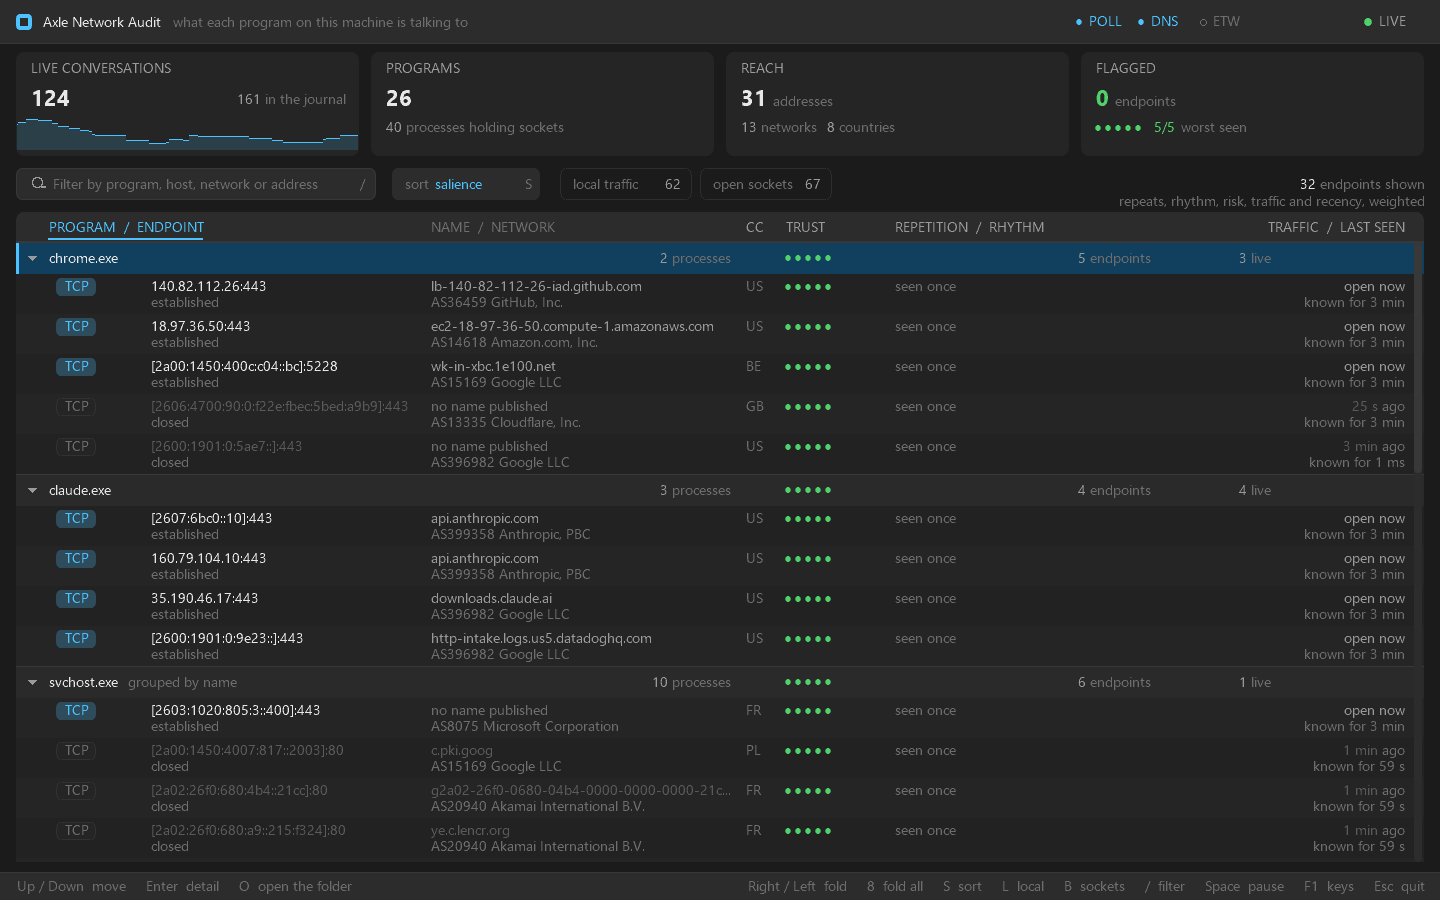
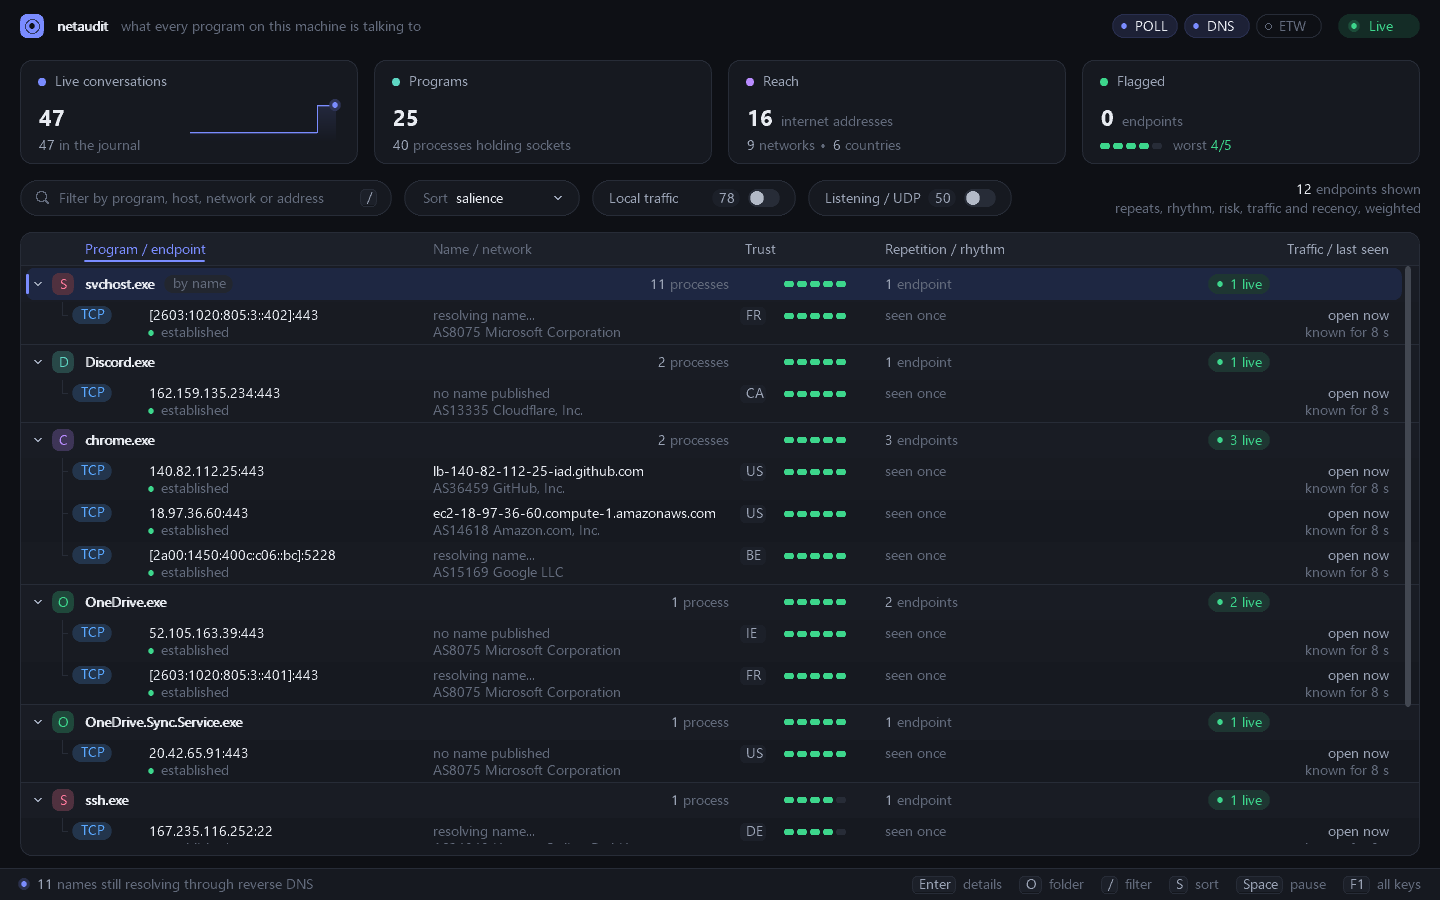
docs: the README, the manifest and the screenshot match the program
- Keys: Esc no longer quits; Sort opens the list of rankings; F12 writes
  beside the working directory.
- Lookups: 4.5 s between batches, retries, one registry question per
  address; the resolver cache is read, never queried.
- Elevation: it reads service paths, and nothing else changes.
- Layout: the new files (session, world, machine, paint, shape, pointer),
  six seams instead of five, the five-parameter rule and the structs it
  rests on, the resizable window.
- A new screenshot of the new window.

diff --git a/README.md b/README.md
@@ -98,7 +98,7 @@ hand. Six rules, applied everywhere:
 
 | | |
 |---|---|
-| **An endpoint is a journal entry, not a snapshot.** | A closed connection goes grey and stays five minutes with its counts intact. A table of what is `ESTABLISHED` *right now* would flicker continuously, and would answer the wrong question. |
+| **An endpoint is a journal entry, not a snapshot.** | A closed connection goes grey and stays five minutes after its last socket is gone, counts intact. A table of what is `ESTABLISHED` *right now* would flicker continuously, and would answer the wrong question. |
 | **Identity is never an index.** | The selection is an endpoint key, the folds are group keys, the scroll is pixels. A rebuild cannot move any of them. |
 | **The sort is damped, and freezes on hover.** | A row only overtakes its neighbour by a margin — and while the pointer is over the tree, nothing reorders at all. |
 | **Figures are smoothed.** | A rate carries three quarters of the previous reading. |
@@ -115,15 +115,26 @@ hand. Six rules, applied everywhere:
 | `→` `←` | open and fold a program · `8` fold everything |
 | `Enter` | the full card for the selected endpoint |
 | `O` | open the folder holding the program, binary selected |
-| `S` | next ranking · `/` filter |
+| `S` | next ranking · `/` filter · clicking **Sort** opens the list of rankings, each with what it weighs |
 | `L` | also show local traffic · `B` also show listening and UDP sockets |
 | `Space` | pause · `R` re-read now · `C` clear the journal |
-| `F12` | write the window to `netaudit.bmp`, beside the binary |
-| `F1` | the key list · `Esc` close a card, clear the filter, or quit · `Q` quit |
+| `F12` | write the window to `netaudit.bmp`, in the folder it was started from |
+| `F1` | the key list · `Esc` close a card or clear the filter · `Q` quit |
+
+`Esc` never closes the window: a key pressed to dismiss something must not be
+able to end the session you were in the middle of.
+
+**The window resizes, and the layout follows.** The cards share the width,
+the tree grows to the bottom, and the right-hand column and the badges stay
+anchored to the right edge; below 1280 × 640 the frame is cut at the window's
+edge rather than every column overlapping. The pointer is a beam over the
+filter and a hand over anything that answers a click.
 
 **The column headers rank by what they name**, and the one the rows are ordered
-by is underlined. A header covering two readings takes both: `REPETITION /
-RHYTHM` ranks by repeat count, then by steadiness.
+by is underlined. A header covering two readings takes both: `Repetition /
+rhythm` ranks by repeat count, then by steadiness. A program ranks by its best
+endpoint under the same reading, so the program holding the steadiest timer is
+the one at the top of a rhythm-sorted tree.
 
 **A program's triangle folds it; the rest of its row selects it** — so a
 program's totals are readable without closing what you were looking at. The
@@ -141,11 +152,16 @@ Two sources. Neither needs a key or an account.
 
 **`ip-api.com/batch`** — up to a hundred addresses per request: AS number and
 name, country, city, operator, and the `proxy` / `hosting` / `mobile` flags.
-One batch in flight, three seconds apart, exponential back-off on failure, and
-every address asked about exactly once per session.
+One batch in flight, four and a half seconds apart (the service allows fifteen
+batches a minute), exponential back-off on failure, and every address answered
+exactly once per session. A batch that never arrived — the network was down, the
+service said 429 — puts its addresses back in line; it is not read as "every
+one of them came back empty".
 
 **Team Cymru's DNS whois** — `x.y.z.w.origin.asn.cymru.com` and
 `AS<n>.asn.cymru.com`, both `TXT`, for the addresses the batch could not name.
+Each question is asked once per address, answered or not, so one address the
+registry cannot place never holds up the rest.
 
 <details>
 <summary><b>Why the second one is DNS and not HTTP</b></summary>
@@ -183,13 +199,19 @@ axle build
 install, no DLL to copy beside the binary, no `[link]` section to fill in:
 every OS library — `iphlpapi`, `dnsapi`, `kernel32`, `shell32`, and `gdi32`
 through smalt — is named by the `extern "C" from "…"` block that imports from
-it, so the link line learns of each from the declaration that needed it.
+it, so the link line learns of each from the declaration that needed it. The
+one exception is `NtQuerySystemInformation`, bound by symbol from `ntdll`.
 
-**Nothing needs elevation**, and nothing is gated behind it: the connection
-tables, the resolver cache and the reverse lookups are readable by any process.
-The one reading that would need it is the kernel trace behind the `ETW` badge,
-and that is not implemented — so running as administrator changes nothing
-today.
+**Nothing needs elevation.** The connection tables, the resolver cache and
+the reverse lookups are readable by any process. Run elevated, one thing
+improves: the image paths of services running under another account become
+readable, so `svchost` and friends are grouped by path rather than by name.
+The kernel trace behind the `ETW` badge would need elevation too, and it is
+not implemented.
+
+**The resolver cache is read, never queried.** Each cached name is resolved
+with `DNS_QUERY_NO_WIRE_QUERY`, so nothing about what this machine looked up
+leaves it.
 
 **`--snap <ms>`** waits that long, writes `netaudit.bmp`, and quits: a capture
 for a report or for a script, with nobody standing over the machine at the
@@ -211,23 +233,28 @@ right moment. `F12` does the same on demand.
 netaudit
 ├── axle.toml                  the package, the smalt path dependency, the win32 port
 ├── src/
-│   ├── main.axle              the window, the loop, the tiers, the two lookups in flight
+│   ├── main.axle              the window, the loop, the two lookups in flight
+│   ├── session.axle           what the loop owns: the world, the machine, the queue, the app
 │   ├── app.axle               the interaction state: selected, sorted, filtered, folded
 │   ├── input.axle             keys, clicks and the wheel, turned into changes on `app`
 │   ├── theme.axle             the palette and the layout grid
 │   ├── fmt.axle               the figures a library cannot format: an address, a rate
 │   │
 │   ├── sys/                   the machine, as this program reads it
+│   │   ├── machine.axle       the four readers, as one value
 │   │   ├── raw.axle           the four pointer views the imports need — all the `unsafe`
 │   │   ├── tiers.axle         which readings are running, and why the others are not
+│   │   ├── shape.axle         the pointer shapes the window asks for
 │   │   └── win32/             ← the one directory that names an operating system
 │   │       ├── conn.axle      GetExtendedTcp/UdpTable, v4 and v6, one row shape
 │   │       ├── procs.axle     process names, and where each binary lives
 │   │       ├── dnscache.axle  the resolver's cache, inverted to address → name
 │   │       ├── rdns.axle      the PTR record, for what nothing else could name
-│   │       └── shell.axle     explorer.exe /select,"…"
+│   │       ├── shell.axle     explorer.exe /select,"…"
+│   │       └── pointer.axle   the beam over a field, the hand over a control
 │   │
 │   ├── model/                 the journal, and every reading taken off it
+│   │   ├── world.axle         the six tables below, as one value
 │   │   ├── pool.axle          interned text — nothing here is ever a `string`
 │   │   ├── key.axle           the one hash every identity is folded with
 │   │   ├── addr.axle          loopback / private / public, and how an address is keyed
@@ -247,6 +274,7 @@ netaudit
 │   │   └── cymru.axle         the registry over DNS, for what the batch could not name
 │   │
 │   └── ui/                    nothing below here reads the machine
+│       ├── paint.axle         the frame, the two faces, the figure cursor
 │       ├── parts.axle         the pieces every surface is assembled from
 │       ├── card.axle          the cursor a card's content is emitted against, twice
 │       ├── chrome.axle        the title bar, the four cards, the toolbar, the status
@@ -264,7 +292,7 @@ netaudit
 would resolve to a sibling directory's file on another target.
 
 Everything above `sys/` — the model, the enrichment, the whole UI — names no OS
-at all. That is what makes a second port five files and no edit anywhere else.
+at all. That is what makes a second port six files and no edit anywhere else.
 `axle ports` prints the table with a tick per seam.
 
 ### What it stands on
@@ -289,9 +317,13 @@ tool that measures the machine owes it.
 `BitmapFont::drawBytes` renders straight from it, so a repaint drawing a few
 hundred numbers allocates nothing at all.
 
-**Wide names go through a real UTF-8 decode.** `Mem::wideFrom` emits surrogate
-pairs and degrades a malformed sequence to U+FFFD, so a path with an em dash in
-it survives the round trip back to `ShellExecuteW`.
+**Text on screen is ASCII, text handed back to Windows is not.** The baked
+face carries codes 32 to 126 and draws anything else as nothing, so a name is
+folded on its way into the pool — `Zürich` lands as `Zurich`, not `Z??rich` —
+and every literal the program draws is ASCII (a minus sign typed as U+2212
+would turn a penalty on the score card into a bonus). The path `O` hands to
+`ShellExecuteW` is the UTF-16 Windows gave, kept beside the drawable copy, so a
+folder with an accent in its name still opens.
 
 What stays here is what a library cannot know: an address in its canonical text
 form, a rate whose empty case means *nothing measured bytes* rather than
@@ -300,12 +332,28 @@ reading's trace is drawn against.
 
 ### How it is written
 
-Three habits, each turning a class of silent mistake into a compile error.
+Four habits, each turning a class of silent mistake into a compile error or a
+signature that says what it touches.
+
+**No function takes more than five parameters.** What travels together is one
+value: `Session` is what the loop owns, `World` the six model tables,
+`Machine` the four OS readers, `Paint` how the window draws, `Layout` where
+everything sits for the window's size, `Lens` what the reader asked the tree
+to show, and `Sighting`, `Obj`, `Bytes`, `Lane`, `Toggle` and `Band` are the
+small values a socket, a JSON object, a span of text, a column, a toolbar
+switch and a trace's scale are.
+Axle's borrows are second-class (E0513 — a reference lent for a call cannot be
+kept in a field), so a surface takes the paint *and* the session, side by side,
+rather than a context that pretends to hold both. The four Win32 imports keep
+their six arguments: those signatures are Windows's, not ours.
 
 **Every state is an enum, read by a `match` with no wildcard** — `Tier`,
 `TierState`, `Sort`, `RowKind`, `Modal`, `Say`, `Action`, `Proto`,
 `SocketKind`, `Reach`, `Look`, `NameSource`, `PathState`, `WhoisKind`,
 `Reason`. The columns included: they are `Reach[]` and `Look[]`, not `i32[]`.
+The wildcards left are on integers (a TCP state number, an index into a cycle),
+on smalt's `EventKind`, whose other kinds this window does not answer, and on
+`Hot` where the tooltip picks out the three tier badges from fifteen targets.
 
 The event loop is two of those matches — one routes an `EventKind` to a
 handler, one applies the `Action` it answered — so an event kind or an action
@@ -321,7 +369,7 @@ sometimes `-1` is a type nobody reads the same way twice.
 between an address and a `ptr` that the Windows imports need; smalt owns the raw
 reads and writes. `unsafe` is per-function in Axle (E0707 — it does not
 propagate across a call), so that confinement is enforceable rather than
-aspirational: `grep unsafe src/` returns one file.
+aspirational: `grep -rlE "unsafe (fn|\{)" src/` returns one file.
 
 ---
 
